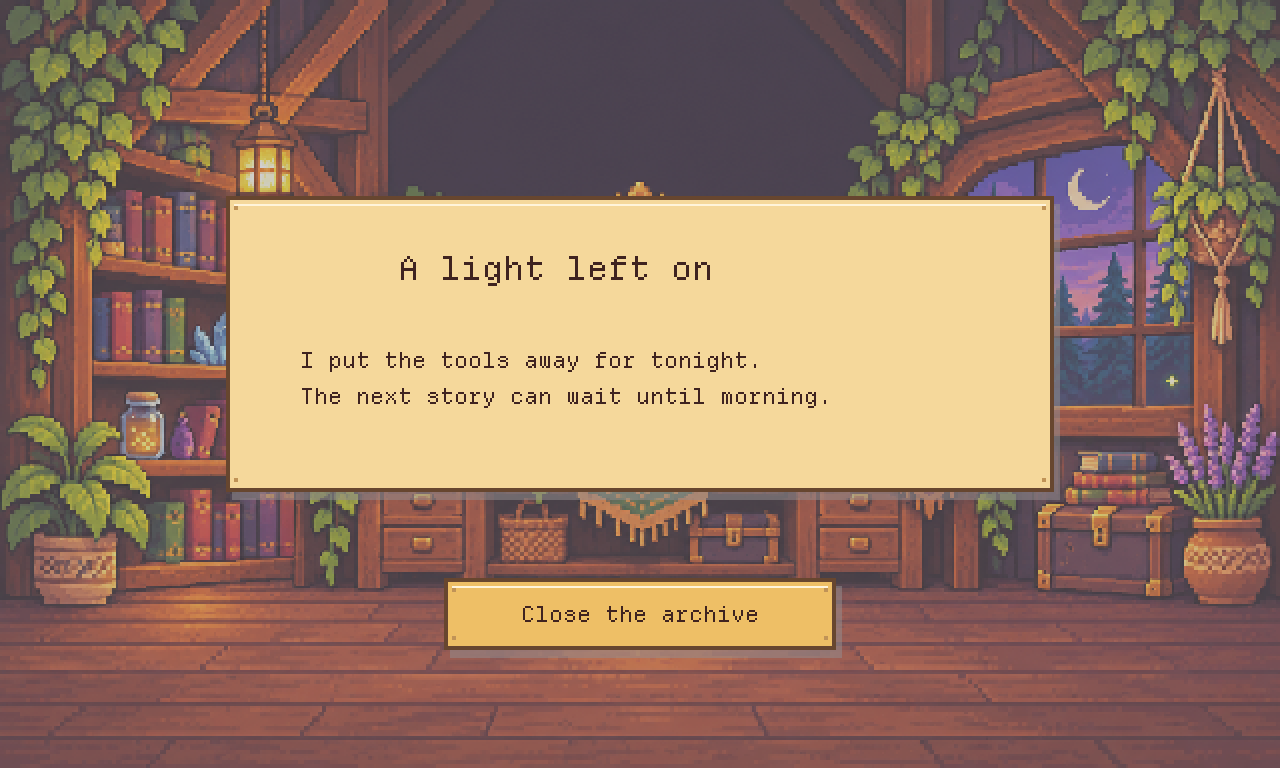
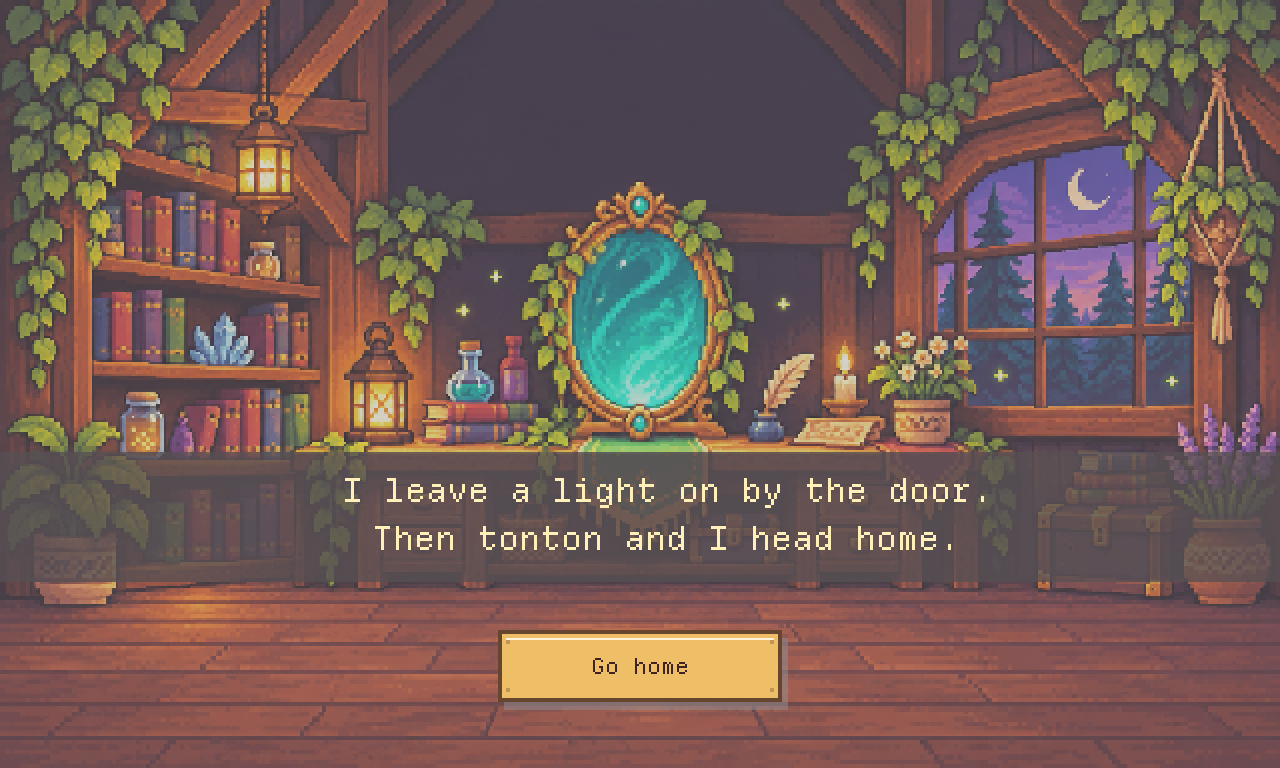
Stop maze movement at corners and polish narration and home screens

diff --git a/src/ofApp.cpp b/src/ofApp.cpp
@@ -6,7 +6,7 @@ constexpr int W=640,H=384;
 const ofRectangle startButton{236,258,168,44},homeButton{580,8,48,26};
 const ofRectangle photoArea{104,40,432,288},nextButton{459,343,165,30};
 const ofRectangle cameraButton{486,243,140,28},referenceButton{486,288,140,28};
-const ofRectangle castButton{176,318,130,30},aboutButton{334,318,130,30},infoBack{520,43,68,28},soundButton{536,354,88,23};
+const ofRectangle castButton{176,318,130,30},aboutButton{334,318,130,30},infoBack{520,43,68,28},soundButton{594,350,30,26};
 const ofRectangle letterArea{70,39,500,290};
 const cv::Rect address{213,71,50,17};
 const std::array<std::string,3> titles{"Restore the photo","Open the box","Guide the letter"};
@@ -55,7 +55,7 @@ void ofApp::setup(){
         ofPixels chestSheet;if(!ofLoadImage(chestSheet,"art/keepsake-chests.png"))throw std::runtime_error("Missing chest art");
         for(int i=0;i<2;++i){ofPixels cell;chestSheet.cropTo(cell,i*chestSheet.getWidth()/2,0,chestSheet.getWidth()/2,chestSheet.getHeight());chests[i].setFromPixels(cell);trim(chests[i],400);}
         if(!envelopeArt.load("art/keepsake-envelope.png")||!paperArt.load("art/letter-paper.png")||!titleArt.load("art/archive-sign.png")||!moth.load("art/moth.png"))throw std::runtime_error("Missing prop art");
-        trim(envelopeArt,144);trim(paperArt,500);trim(titleArt,478);trim(moth,28);
+        trim(envelopeArt,144);trim(paperArt,500);trim(titleArt,478);trim(moth,40);
         if(!doorbell.load("audio/doorbell.wav"))throw std::runtime_error("Missing doorbell sound");doorbell.setVolume(qaMode?.08f:.3f);
         fontFor(11);fontFor(22);fontFor(33);
         auto photo=cv::imread(ofToDataPath("art/family-home.png",true));
@@ -116,11 +116,11 @@ void ofApp::finishChapter(){
     photoOpen=false;
     if(chapter==0){
         if(revisiting){chapter=returnChapter;revisiting=false;return;}
-        chapter=1;say({{"tonton","Let's try your code!\nWrite one number in each box.\nCheck the small windows, then press Open.",1},
+        chapter=1;say({{"tonton","Let's try your password!\nWrite one number in each box.\nCheck the small windows, then press Open.",1},
             {"tonton","You can use more than one stroke.\nClear lets you try again.\nClick Photo to work on the photo."}});
     }else if(chapter==1){chapter=2;maze.reset();trail.clear();say({{"tonton","For little Tang... That's Lia's grandma!\nHer mom made her a little map.",2},
         {"tonton","Let's send the letter to her old home.\nStart camera. Put your hand\nin the middle of the camera view."},
-        {"tonton","Move your hand to a side. Hold it there.\nWhen the ring is full, the letter will move.\nGo back to the middle to try again."}});
+        {"tonton","Move your hand to a side. Hold it there.\nThe letter stops at forks and corners.\nGo back to the middle to try again."}});
     }else {delivered=true;stopCamera();say({
         {"tonton","We found her home!\nThere is something on the back.",3},
         {"You","Let's turn it over, gently."},
@@ -162,7 +162,7 @@ void ofApp::updateCamera(float now){
 void ofApp::moveEnvelope(homeward::Direction direction){
     if(screen!=Screen::Play||chapter!=2||photoOpen||delivered||moveDuration>0)return;
     moveFrom=maze.position;movePath=maze.route(maze.position,direction);
-    if(!movePath.empty()){maze.position=movePath.back();moveAt=ofGetElapsedTimef();moveDuration=.16f+float(movePath.size())*.13f;trail.push_back(moveFrom);trail.insert(trail.end(),movePath.begin(),movePath.end());}
+    if(!movePath.empty()){maze.position=movePath.back();moveAt=ofGetElapsedTimef();moveDuration=.16f+float(movePath.size())*.13f;trail.push_back(moveFrom);trail.insert(trail.end(),movePath.begin(),movePath.end());palm.reset();lastPalmStamp=0;}
 }
 void ofApp::update(){
     float now=ofGetElapsedTimef();
@@ -236,12 +236,22 @@ void ofApp::drawHome(){
     // Ambient motion stays behind the controls and never moves their hit targets.
     rect(277,190,78,66,ofColor(105,221,198,8+int(7*(1+std::sin(t*1.3f)))));
     for(int i=0;i<23;++i){int x=40+(i*73)%560,y=150+int(std::fmod(t*(3+i%4)+i*23,184.f));rect(x+int(std::sin(t*.6f+i)*6),y,1+i%2,1,ofColor(255,222,142,50+int(50*(1+std::sin(t+i)))));}
-    ofPushMatrix();ofTranslate(int(489+std::sin(t*.25f)*42),int(170+std::sin(t*.42f)*17));ofScale(1,.55f+.45f*std::abs(std::sin(t*7)));drawProp(moth,{-14,-10,28,20});ofPopMatrix();
+    // Uniform scale and gentle banking preserve the sprite's original proportions.
+    for(int i=0;i<3;++i){
+        float phase=t*(.34f+i*.06f)+i*2.1f;
+        float x=150+i*170+std::sin(phase)*48,y=203+std::sin(phase*1.7f+i)*22;
+        float size=(i==1?22.f:30.f)*(1+.04f*std::sin(t*4+i));
+        ofPushMatrix();ofTranslate(std::round(x),std::round(y));ofRotateDeg(std::sin(phase*2)*12);
+        drawProp(moth,{-size/2,-size/2,size,size});ofPopMatrix();
+    }
     int bob=int(std::sin(t*.7f));ofPushMatrix();ofTranslate(0,bob);drawProp(titleArt,{81,23,478,163});
     centered("MIRROR ARCHIVE",320,101,light,4);ofPopMatrix();
-    textInBox("Old things. New stories.",{172,193,296,28},light);
     button("START",startButton,true,3);button("Meet us",castButton);button("About",aboutButton);
-    button(soundOn?"Sound on":"Sound off",soundButton);
+    if(over(soundButton))rect(soundButton.x,soundButton.y,soundButton.width,soundButton.height,ofColor(49,37,35,160));
+    auto soundColor=over(soundButton)?light:ofColor(190,165,126);
+    rect(599,359,4,7,soundColor);ofSetColor(soundColor);ofDrawTriangle(603,359,608,355,608,370);
+    if(soundOn){line(612,358,614,360,soundColor);line(614,360,614,365,soundColor);line(614,365,612,367,soundColor);}
+    else {line(612,359,619,366,soundColor);line(619,359,612,366,soundColor);}
 }
 void ofApp::drawInfo(){
     drawHome();rect(0,0,W,H,ofColor(24,20,27,190));paperFrame(48,29,544,327,paper);
@@ -261,11 +271,11 @@ void ofApp::drawInfo(){
         }
     }else{
         rasterText("About this game",72,68,ink,true);
-        body("A small story about family and care.",72,91);
+        body("CityUHK CS4187 Mini Project.",72,91);
         label("How to play",72,121,wood);
         body("Mouse: brushes and writing.\nCamera: guide the letter with your hand.\nSpace: next line. Esc: back to the cover.",72,143);
         label("Credits & notice",72,211,wood);
-        body("A fictional story. AI-assisted artwork.\nBuilt with openFrameworks, OpenCV and MediaPipe.\nFont: Departure Mono (OFL).\nYour camera stays on this computer.\nNo images are saved or uploaded.",72,233);
+        body("A fictional story about family and care.\nBuilt with openFrameworks, OpenCV and MediaPipe.\nFont: Departure Mono (OFL).\nYour camera stays on this computer.\nNo images are saved or uploaded.",72,233);
     }
 }
 void ofApp::drawDesk(){
@@ -383,9 +393,9 @@ void ofApp::drawDialogue(){
     rect(0,0,W,H,ofColor(28,21,27,50));
     const auto& speech=dialogue[speechIndex];
     paperFrame(18,278,604,95,paper);
-    paperFrame(38,265,104,24,ofColor(114,72,49));textInBox(speech.speaker,{38,265,104,24},light);
+    if(!speech.narration){paperFrame(38,265,104,24,ofColor(114,72,49));textInBox(speech.speaker,{38,265,104,24},light);}
     rasterText(speech.words,38,313,ink,true);
-    if(speech.speaker!="You")rect(507,290,1,70,ofColor(208,179,130));
+    if(!speech.narration&&speech.speaker!="You")rect(507,290,1,70,ofColor(208,179,130));
     if(speech.speaker=="tonton"){
         float age=ofGetElapsedTimef()-dialogueAt;int shake=age<.35&&speech.happy?int(std::sin(age*65)*2):0;
         pixel::tonton(562+shake,330,2,ofGetElapsedTimef(),speech.happy);
@@ -423,11 +433,11 @@ void ofApp::drawOutro(){
     ofSetColor(255);giftPhoto.draw(photo);drawEnvelope({photo.x+210,photo.y+125,90,60});
 }
 void ofApp::drawComplete(){
-    ofSetColor(255);hero.draw(0,0,W,H);rect(0,0,W,H,ofColor(30,22,30,65));
-    paperFrame(113,98,414,148,paper);
-    rasterText("A light left on",199,140,ink,true);
-    body("I put the tools away for tonight.\nThe next story can wait until morning.",150,174);
-    button("Close the archive",{222,289,196,36},true);
+    ofSetColor(255);hero.draw(0,0,W,H);rect(0,0,W,H,ofColor(30,22,30,60));
+    rect(0,226,W,65,ofColor(35,25,30,195));
+    rasterText("I leave a light on by the door.",171,251,light,true);
+    rasterText("Then tonton and I head home.",186,275,light,true);
+    button("Go home",{249,315,142,36},true);
 }
 void ofApp::renderCanvas(int scale){
     drawScale=scale;
@@ -456,7 +466,7 @@ void ofApp::pointerDown(glm::vec2 p){
     }
     if(screen==Screen::Info){if(infoBack.inside(p))screen=Screen::Home;return;}
     if(screen==Screen::Dialogue){if(ofRectangle(18,266,604,107).inside(p))nextSpeech();return;}
-    if(screen==Screen::Complete){if(ofRectangle(222,289,196,36).inside(p))screen=Screen::Home;return;}
+    if(screen==Screen::Complete){if(ofRectangle(249,315,142,36).inside(p))screen=Screen::Home;return;}
     if(screen==Screen::Letter){
         if(!letterOpened&&letterArea.inside(p))openLetter();
         else if(letterOpened&&ofGetElapsedTimef()-letterAt>=.6f&&nextButton.inside(p))beginEnding();
@@ -533,6 +543,7 @@ void ofApp::runQA(){
         auto cue=dialogue[speechIndex].cue;float age=ofGetElapsedTimef()-dialogueAt;
         if((cue==story::Cue::ShowKeepsakes&&age<.65f)||(cue==story::Cue::Doorbell&&age<1.f)||(cue==story::Cue::ReturnPhoto&&age<1.f))return;
         capture("qa-dialogue-"+std::to_string(chapter)+"-"+std::to_string(speechIndex)+"-"+std::to_string(dialogue[speechIndex].happy)+".png");
+        if(intro&&speechIndex==0){capture("qa-narration.png");qaPassed&=dialogue[speechIndex].narration;}
         if(cue==story::Cue::ShowKeepsakes){capture("qa-intro.png");capture("qa-type-3.png",3);capture("qa-type-4.png",4);}
         if(cue==story::Cue::Doorbell){capture("qa-doorbell.png");qaPassed&=bellsPlayed==1&&doorbell.isLoaded();}
         if(cue==story::Cue::ReturnPhoto){capture("qa-handover.png");qaPassed&=giftReturned&&giftPhoto.isAllocated();}
@@ -568,7 +579,8 @@ void ofApp::runQA(){
         case 4:if(inkDue[0]>0||inkDue[1]>0||inkDue[2]>0)break;ofLogNotice()<<"QA handwriting: "<<recognized[0]<<recognized[1]<<recognized[2];qaPassed&=recognized==std::array<int,3>{2,0,8};capture("qa-case2.png");click(nextButton.getCenter());if(chapter!=2){ofLogError()<<"QA handwriting lock failed";ofExit(1);return;}++qaStage;break;
         case 5:
             if(qaMove==0){
-                keyPressed(OF_KEY_RIGHT);qaPassed&=moveDuration>0;
+                auto expected=maze.destination(maze.position,homeward::Direction::Right);keyPressed(OF_KEY_RIGHT);qaPassed&=moveDuration>0&&maze.position==expected;
+                keyPressed(OF_KEY_RIGHT);qaPassed&=maze.position==expected;
                 keyPressed(OF_KEY_ESC);qaPassed&=screen==Screen::Home&&moveDuration==0;
                 click(startButton.getCenter());qaPassed&=chapter==0&&cv::countNonZero(repair.mask)==0&&recognized==std::array<int,3>{-1,-1,-1};
                 qaMove=1;qaStage=1;break;

diff --git a/tests/HomewardTests.cpp b/tests/HomewardTests.cpp
@@ -26,7 +26,9 @@ int main(int argc,char** argv){try{
     check(cv::norm(finished,small,cv::NORM_L1)<cv::norm(repair.damaged,small,cv::NORM_L1),"Returned photo is restored from damaged pixels");
     check(cv::countNonZero(repair.mask)==0,"Finishing the gift does not overwrite player brush history");
     auto opening=story::opening(),ending=story::ending();
-    check(opening.front().speaker=="You","The player introduces their own archive");
+    check(opening.front().speaker=="You"&&opening.front().narration,"The player introduces their archive without a speaker plate");
+    check(!opening[5].narration&&opening[5].speaker=="You","Spoken player dialogue retains its nameplate");
+    check(ending[6].narration&&ending.back().narration,"Departure and closing thoughts are narration");
     int bell=-1,greeting=-1,handover=-1,leave=-1;
     for(size_t i=0;i<opening.size();++i){if(opening[i].cue==story::Cue::Doorbell)bell=i;if(opening[i].speaker=="tonton"&&greeting<0)greeting=i;}
     check(bell>=0&&bell<greeting,"Doorbell comes before the assistant's greeting");
@@ -39,8 +41,11 @@ int main(int argc,char** argv){try{
 
     Maze maze;auto route=maze.solution();
     std::cout<<"Shortest maze route: "<<route.size()<<" gestures\n";
-    check(route.size()>=4&&route.size()<=12,"Maze requires a short sequence of deliberate choices");
+    check(!route.empty(),"Maze has a route home");
     check(!maze.move(Direction::Left),"Blocked directions do not move");
+    check(maze.destination({5,7},Direction::Right)==cv::Point(9,7),"Stop at the corner instead of automatically turning north");
+    check(maze.destination({9,7},Direction::Up)==cv::Point(9,5),"A fresh command follows the next straight leg");
+    check(maze.route({9,7},Direction::Right).empty(),"Continuing into the corner wall cannot turn the envelope");
     for(auto d:route)check(maze.move(d),"Solution uses legal moves");
     check(maze.solved(),"Route reaches correct home");
     for(auto p:maze.decoys){maze.position=p;check(!maze.solved(),"Wrong houses do not complete story");check(!maze.solution().empty(),"Wrong house is returnable");}
@@ -49,7 +54,13 @@ int main(int argc,char** argv){try{
     while(!pending.empty()){
         auto p=pending.front();pending.pop();if(!visited.insert(p.y*13+p.x).second)continue;
         maze.position=p;check(p==maze.home||!maze.solution().empty(),"Every reachable stop can still finish");
-        for(auto d:directions){auto q=maze.destination(p,d);if(q!=p)pending.push(q);}
+        for(auto d:directions){auto path=maze.route(p,d);auto q=maze.destination(p,d);
+            for(size_t i=0;i<path.size();++i){
+                check(path[i]==p+step(d)*int(i+1),"Every animated tile stays in the requested direction");
+                if(i+1<path.size())check(!maze.house(path[i])&&maze.exits(path[i])==2,"A command never passes a fork or house");
+            }
+            if(q!=p)check(maze.house(q)||maze.exits(q)!=2||!maze.road(q+step(d)),"A straight route stops at a decision or corner");
+            if(q!=p)pending.push(q);}
     }
 
     const double dt=1./30;
@@ -63,6 +74,13 @@ int main(int argc,char** argv){try{
         check(events==1,"Holding a side emits exactly one command");
         palm.update(.5,.5,false,dt);check(!palm.ready(),"Tracking loss requires recentering");
     }
+    Maze controlled;PalmGuide held;
+    for(int i=0;i<8;++i)held.update(.5,.5,true,dt);
+    for(int i=0;i<120;++i){auto d=held.update(.8,.5,true,dt);if(d!=Direction::None)controlled.move(d);}
+    check(controlled.position==cv::Point(3,7),"Holding a hand to the side stops at the first junction");
+    for(int i=0;i<8;++i)held.update(.5,.5,true,dt);
+    for(int i=0;i<60;++i){auto d=held.update(.8,.5,true,dt);if(d!=Direction::None)controlled.move(d);}
+    check(controlled.position==cv::Point(5,7),"A new centered gesture permits the next straight corridor");
     PalmGuide palm;for(int i=0;i<8;++i)palm.update(.5,.5,true,dt);
     for(int i=0;i<30;++i)check(palm.update(.8,.8,true,dt)==Direction::None,"Diagonal palm is not a command");
     for(int i=0;i<30;++i)check(palm.update(.8,.5,true,dt,{true,false,true,true})==Direction::None,"Blocked side cannot move");

diff --git a/src/StoryScript.h b/src/StoryScript.h
@@ -8,17 +8,18 @@ struct Speech {
     std::string speaker,words;
     int happy=0;
     Cue cue=Cue::None;
+    bool narration=false;
 };
 
 inline std::vector<Speech> opening(){return {
-    {"You","I opened Mirror Archive to restore\nold photos, letters, and memories."},
-    {"You","This is my little archive.\ntonton is my helper and my friend."},
-    {"You","Someone is at the door.",0,Cue::Doorbell},
+    {"You","I opened Mirror Archive to restore\nold photos, letters, and memories.",0,Cue::None,true},
+    {"You","This is my little archive.\ntonton is my helper and my friend.",0,Cue::None,true},
+    {"You","Someone is at the door.",0,Cue::Doorbell,true},
     {"tonton","Hello! Welcome to Mirror Archive.\nCome in. How can we help?",1},
     {"Lia","I'm Lia. This box was my grandma's.\nShe kept this old photo with it.",0,Cue::ShowKeepsakes},
     {"You","Please, take your time.\nTell me about her."},
     {"Lia","She died last month. I miss her.\nI want to know what she kept inside.",1},
-    {"Lia","The code is her first home's address.\nThat is what she told me.\nBut I have never been there."},
+    {"Lia","The password is her first home's address.\nThat is what she told me.\nBut I have never been there."},
     {"You","I'll take good care of them.\nLet's find that house number."},
     {"tonton","Drag a brush over the photo.\nClean spots, then try Contrast.\nFind the number, then try the box."}
 };}
@@ -30,11 +31,11 @@ inline std::vector<Speech> ending(){return {
     {"Lia","Thank you. I'll put them by my bed.\nI'll keep a light on, too.",2},
     {"You","Take care, Lia.\nCome back any time."},
     {"Lia","I will. Thank you, both of you.",2},
-    {"You","I watch Lia leave with her photo.\nThe room feels quiet again.",0,Cue::LiaLeaves},
+    {"You","I watch Lia leave with her photo.\nThe room feels quiet again.",0,Cue::LiaLeaves,true},
     {"tonton","We fixed more than a photo today.",3},
     {"You","We helped her bring a little of\nhome back with her."},
     {"tonton","Another light left on.",1},
-    {"You","I put away my tools.\nWe will be here for the next story."}
+    {"You","I put away my tools.\nIt is time to go home.",0,Cue::None,true}
 };}
 
 inline const std::string letter=

diff --git a/src/HomewardGame.h b/src/HomewardGame.h
@@ -174,8 +174,7 @@ public:
 };
 
 struct Maze {
-    // Two routes, a misleading house and a long returnable dead end. Movement
-    // stops at a junction, dead end or house; no precision timing is needed.
+    // Follow only the chosen straight corridor. Stop before a turn or at a decision.
     const std::array<std::string,9> tiles{{
         "#############", "#...#.......#", "#.#.#.#####.#",
         "#.#...#.....#", "#.#####.###.#", "#.....#...#.#",
@@ -188,13 +187,15 @@ struct Maze {
     int exits(cv::Point p)const{int n=0;for(auto d:directions)n+=road(p+step(d));return n;}
     bool house(cv::Point p)const{return p==home||p==decoys[0]||p==decoys[1];}
     std::vector<cv::Point> route(cv::Point origin,Direction direction)const{
-        auto next=origin+step(direction);std::vector<cv::Point> path;
+        const auto delta=step(direction);auto next=origin+delta;
+        std::vector<cv::Point> path;
         if(direction==Direction::None||!road(next))return path;
-        auto previous=origin;
-        for(int guard=0;guard<117;++guard){path.push_back(next);if(house(next)||exits(next)!=2)break;
-            cv::Point after=next;for(auto d:directions){auto q=next+step(d);if(road(q)&&q!=previous){after=q;break;}}
-            previous=next;next=after;
-        }return path;
+        while(road(next)){
+            path.push_back(next);
+            if(house(next)||exits(next)!=2||!road(next+delta))break;
+            next+=delta;
+        }
+        return path;
     }
     cv::Point destination(cv::Point origin,Direction d)const{auto path=route(origin,d);return path.empty()?origin:path.back();}
     bool move(Direction d){auto target=destination(position,d);bool moved=target!=position;position=target;return moved;}

diff --git a/docs/TECHNICAL.md b/docs/TECHNICAL.md
@@ -12,7 +12,7 @@ Lia 有平静、难过、释然三个表情。序章先展示工作室；Lia 开
 
 `StoryScript.h` 集中保存简单英文台词及明确的剧情事件。开场先由玩家介绍档案馆和助手，再触发一次本地合成门铃，之后 tonton 欢迎 Lia。结尾按“安慰 → 归还照片 → Lia 离开 → 玩家与助手收尾”推进；事件仅在进入对应台词时执行，不随绘制帧重复触发。
 
-封面提供人物、说明与声音开关；镜面微光、浮尘和飞蛾由时间驱动。imagegen 生成的箱子开／关、信封、信纸和标题牌在运行时裁去透明留白、保持宽高比并采用最近邻采样。姓名与按钮文字按实际字形包围盒居中，坐标取整；“You”台词不显示 NPC 肖像。翻信前 tonton 提示折角，点击纸面后播放短翻转；信件正文、称呼和署名共享同一个文字样式，结束操作为 Bring it to Lia。
+封面提供人物、说明与声音开关；镜面微光、浮尘和飞蛾由时间驱动。imagegen 生成的箱子开／关、信封、信纸和标题牌在运行时裁去透明留白、保持宽高比并采用最近邻采样。姓名与按钮文字按实际字形包围盒居中，坐标取整；“You”台词不显示 NPC 肖像；`Speech::narration` 明确区分旁白与说话，旁白隐藏姓名牌。翻信前 tonton 提示折角，点击纸面后播放短翻转；信件正文、称呼和署名共享同一个文字样式，结束操作为 Bring it to Lia。
 
 归还的照片由 `repair.image(true)` 对受损输入完整执行现有三种滤镜生成；不会直接替换为无损原图，也不会更改玩家局部画笔掩膜或撤销历史。相关测试验证了剧情事件顺序、台词长度、修复输出和原有编辑状态保持。
 
@@ -50,9 +50,9 @@ Python 工作进程独占 OpenCV `VideoCapture`。镜像、缩放至 320×240、
 2. 移到四向区域。主轴偏移须大于 0.16，且超过次轴的 1.35 倍，斜角不触发。
 3. 同一合法方向停留 0.42 秒，填满确认环，只产生一次命令。
 4. 必须回中央才能继续。持续举在一侧不会连发；追踪丢失、异常时间间隔、对话和动画期间重置等待。
-5. 信封自动沿直路和单一弯道前进，在真正分岔、尽头或房子停下。动画沿道路逐段播放，不斜穿墙壁。
+5. 信封只沿玩家选定的方向前进，在岔口、弯角、尽头或房子停下；绝不自动转弯。动画逐格播放当前直路，播放期间拒绝新的移动并清空掌心准备状态；下一次手势必须重新回中。
 
-实时镜像预览、掌心标记、中央框、可走方向箭头与进度环提供直接反馈。方向键与同一组屏幕箭头提供备用输入。图上两个错误房屋、可返回的死路和不同路线保留判断空间；最短路径 4 次方向输入。终点房屋用红屋顶、门灯、花盆呼应第一关照片。地图道路与装饰是游戏设计，不伪称 CV 算法。
+实时镜像预览、掌心标记、中央框、可走方向箭头与进度环提供直接反馈。方向键与同一组屏幕箭头提供备用输入。图上两个错误房屋、可返回的死路和不同路线保留判断空间；最短路径 8 次方向输入。终点房屋用红屋顶、门灯、花盆呼应第一关照片。地图道路与装饰是游戏设计，不伪称 CV 算法。
 
 课程关联是摄像头帧处理、跟踪输入与交互映射；**MediaPipe 预训练手部模型是课外扩展，不是 OpenCV 自带算法，也不是本关调用了 lecture 的 LK/Farneback 光流**。旧光流实现仅保留作回归比较。若报告要求全部来自课堂，需清楚说明这项扩展及选择理由：位置停留比速度阈值更容易反馈和控制。
 
@@ -60,6 +60,6 @@ Python 工作进程独占 OpenCV `VideoCapture`。镜像、缩放至 320×240、
 
 ## 验证边界
 
-`HomewardTests.cpp` 验证真实滤波改善、局部作用与撤销、独立数字留出集、不同写法的 8、掌心回中／停留／禁止连发／丢失重置／斜向与墙壁抑制，以及所有可达停靠点都能回到终点。旧四向光流测试只证明旧算法回归。
+`HomewardTests.cpp` 验证真实滤波改善、局部作用与撤销、独立数字留出集、不同写法的 8、掌心回中／停留／禁止连发／丢失重置／斜向与墙壁抑制，每条移动路径保持同一方向、在岔口／弯角／房屋停下，以及所有可达停靠点都能回到终点。旧四向光流测试只证明旧算法回归。
 
 `--qa` 使用真实鼠标事件画画和手写数字，方向键走迷宫，验证完整故事和回退；`--qa-camera` 检查实际工作进程收帧、预览解码及关闭。摄像头画面不写入 QA 截图。自动测试不能代替不同用户、光照和设备下的真人手掌试玩。

diff --git a/README.md b/README.md
@@ -12,13 +12,13 @@
 | --- | --- | --- |
 | Restore the photo | 选择 Clean / Contrast / Detail，拖动画笔；调大小、Undo。看到门牌后点 I found the password! | 中值滤波、对比度展开、反锐化、三个局部掩膜 |
 | Open the box | 每格手写一个数字，停笔后检查预测；Clear 重写，候选按钮纠正；Open 开箱 | 阈值、包围盒、图像矩校正、Sobel/HOG、OpenCV kNN |
-| Guide the letter | Start camera；手掌先回中间，再移向一个方向，停留至环满。信封自动通过直路和单一弯道，在岔路、尽头、房屋停下 | OpenCV 摄像头／图像处理，MediaPipe 手部关键点、掌心平滑、方向分区、停留确认与回中重启 |
+| Guide the letter | Start camera；手掌先回中间，再移向一个方向，停留至环满。信封沿当前方向通过直路，在岔路、弯角、尽头、房屋停下，不自动转弯 | OpenCV 摄像头／图像处理，MediaPipe 手部关键点、掌心平滑、方向分区、停留确认与回中重启 |
 
 **第一关不要求涂满。** 玩家决定何时尝试密码；第二关点击 Photo 可回去继续修复，画笔结果和手写笔迹保留。第三关 Photo 可重看线索，走错可返回，也可 Start over。方向键和预览内箭头提供备用操作。
 
-每关前 tonton 用简单英文说明玩法，过关后用开心表情推进故事。点击对话框或按空格继续。没有「?」提示按钮、倒计时或生命惩罚；ESC / Home 回封面。到家后 tonton 引导玩家点击折起的纸角，翻到留言；读完点击 Bring it to Lia，把照片和信带回 Lia 身边。信件全文使用一致的字体、字号与颜色。
+每关前 tonton 用简单英文说明玩法，过关后用开心表情推进故事。点击对话框或按空格继续。没有「?」提示按钮、倒计时或生命惩罚；ESC / Home 回封面。到家后 tonton 引导玩家点击折起的纸角，翻到留言；读完点击 Bring it to Lia，把照片和信带回 Lia 身边。信件全文使用一致的字体、字号与颜色。“我”的旁白不显示姓名牌，实际说话时才显示 You。结尾在工作室留下灯光，点击 Go home 回到封面。
 
-封面包含雕花木质标题牌、浮尘、镜面微光与飞蛾动画；Meet us 查看人物，About 查看操作和素材声明，Sound on/off 控制门铃。
+封面包含雕花木质标题牌、浮尘、镜面微光与飞蛾动画；Meet us 查看人物，About 标明 CityUHK CS4187 Mini Project 并提供操作说明；角落的小喇叭图标控制门铃。三只飞蛾沿不同轨迹飞行，始终保持原图比例。
 
 ![Lia 的委托](docs/intro.png)
 
@@ -57,7 +57,7 @@ build/Build/Products/Release/MirrorArchive.app/Contents/MacOS/MirrorArchive --qa
 build/Build/Products/Release/MirrorArchive.app/Contents/MacOS/MirrorArchive --qa-camera
 ```
 
-2026-11-22 算法验证：**85 项旧回归 + 583 项故事检查 + 6 项 Python 测试通过**。数字独立留出集 **2369 / 2500（94.76%）**；鼠标笔迹 208 与九种上下两圈的 8（不同粗细、±12° 倾斜）通过。留出样本不参与训练或增强；这些结果不代表所有人的笔迹都能正确识别。
+2026-11-22 算法验证：**85 项旧回归 + 804 项故事检查 + 6 项 Python 测试通过**。数字独立留出集 **2369 / 2500（94.76%）**；鼠标笔迹 208 与九种上下两圈的 8（不同粗细、±12° 倾斜）通过。留出样本不参与训练或增强；这些结果不代表所有人的笔迹都能正确识别。
 
 本机原生摄像头验证收到 **35 帧预览**，启动约 3.1 秒，关闭成功，完整故事 QA 通过。
 

diff --git a/docs/DEMO.md b/docs/DEMO.md
@@ -4,11 +4,11 @@
 2. Clean 刷掉门牌附近噪点，Contrast 加强褪色文字，再试 Detail。用 + / - 改大小，Undo 撤销。门牌是 **208**。无需涂满，点 **I found the password!**。
 3. 按引导在三格手写 **2 / 0 / 8**。8 可以画连续交叉圈，也可以画上下两圈。停笔后看小窗口；必要时选候选或 Clear 重写。Photo 返回第一关继续修复，Back to the box 返回箱子。Open。
 4. tonton 发现箱里的纸：「For little Tang」，这是奶奶的妈妈画给她的回家游戏。
-5. **Start camera**。手掌放预览中间，移向方向区域并停到环满；回中间后再选下一方向。无需快速挥手或捏合。信封自动过直路和单一弯道。
-6. 一条短路线：**右、右、右、上**。依次到 (3,7)、(5,7)、(11,3)、(11,1)。先观察岔路和房子；蓝顶面包店、紫顶邮局不是老家。Photo 可重看红屋顶、灯与花盆线索，走错可原路返回。
+5. **Start camera**。手掌放预览中间，移向方向区域并停到环满；回中间后再选下一方向。无需快速挥手或捏合。信封沿选定方向通过直路，到岔口、弯角、房屋或尽头就停。转弯需要新的方向输入。
+6. 一条短路线：**右、右、右、上、左、上、右、上**。依次到 (3,7)、(5,7)、(9,7)、(9,5)、(7,5)、(7,3)、(11,3)、(11,1)。先观察岔路和房子；蓝顶面包店、紫顶邮局不是老家。Photo 可重看红屋顶、灯与花盆线索，走错可原路返回。
 7. 到家，tonton 庆祝并提示纸背后有留言。点击右下折角翻纸，读「I will leave the light on for you. Love, Mom」。
-8. 点击 **Bring it to Lia**。Lia 想起奶奶也总为她留灯。“我”安慰她、亲手归还修复的照片。Lia 道谢离开后，“我”和 tonton 谈起今天的委托；Close the archive 回封面。
-9. 可补充展示封面的 Meet us / About，以及 Sound on/off；背景有微光、浮尘和飞蛾动画。
+8. 点击 **Bring it to Lia**。Lia 想起奶奶也总为她留灯。“我”安慰她、亲手归还修复的照片。Lia 道谢离开后，“我”和 tonton 谈起今天的委托；Go home 回封面。
+9. 可补充展示封面的 Meet us / About，以及右下角的小喇叭声音开关；背景有微光、浮尘和飞蛾动画。
 
 算法解释放报告，游戏内保持短句。视频建议包含一次滤镜对比、一次多笔写 8，以及真实手掌回中→选方向→停留确认的画面。自动 QA 走迷宫用的是方向键，不能把截图或自动通关说成真人手势测试。摄像头画面录制用于提交视频前由玩家自行决定。
 
